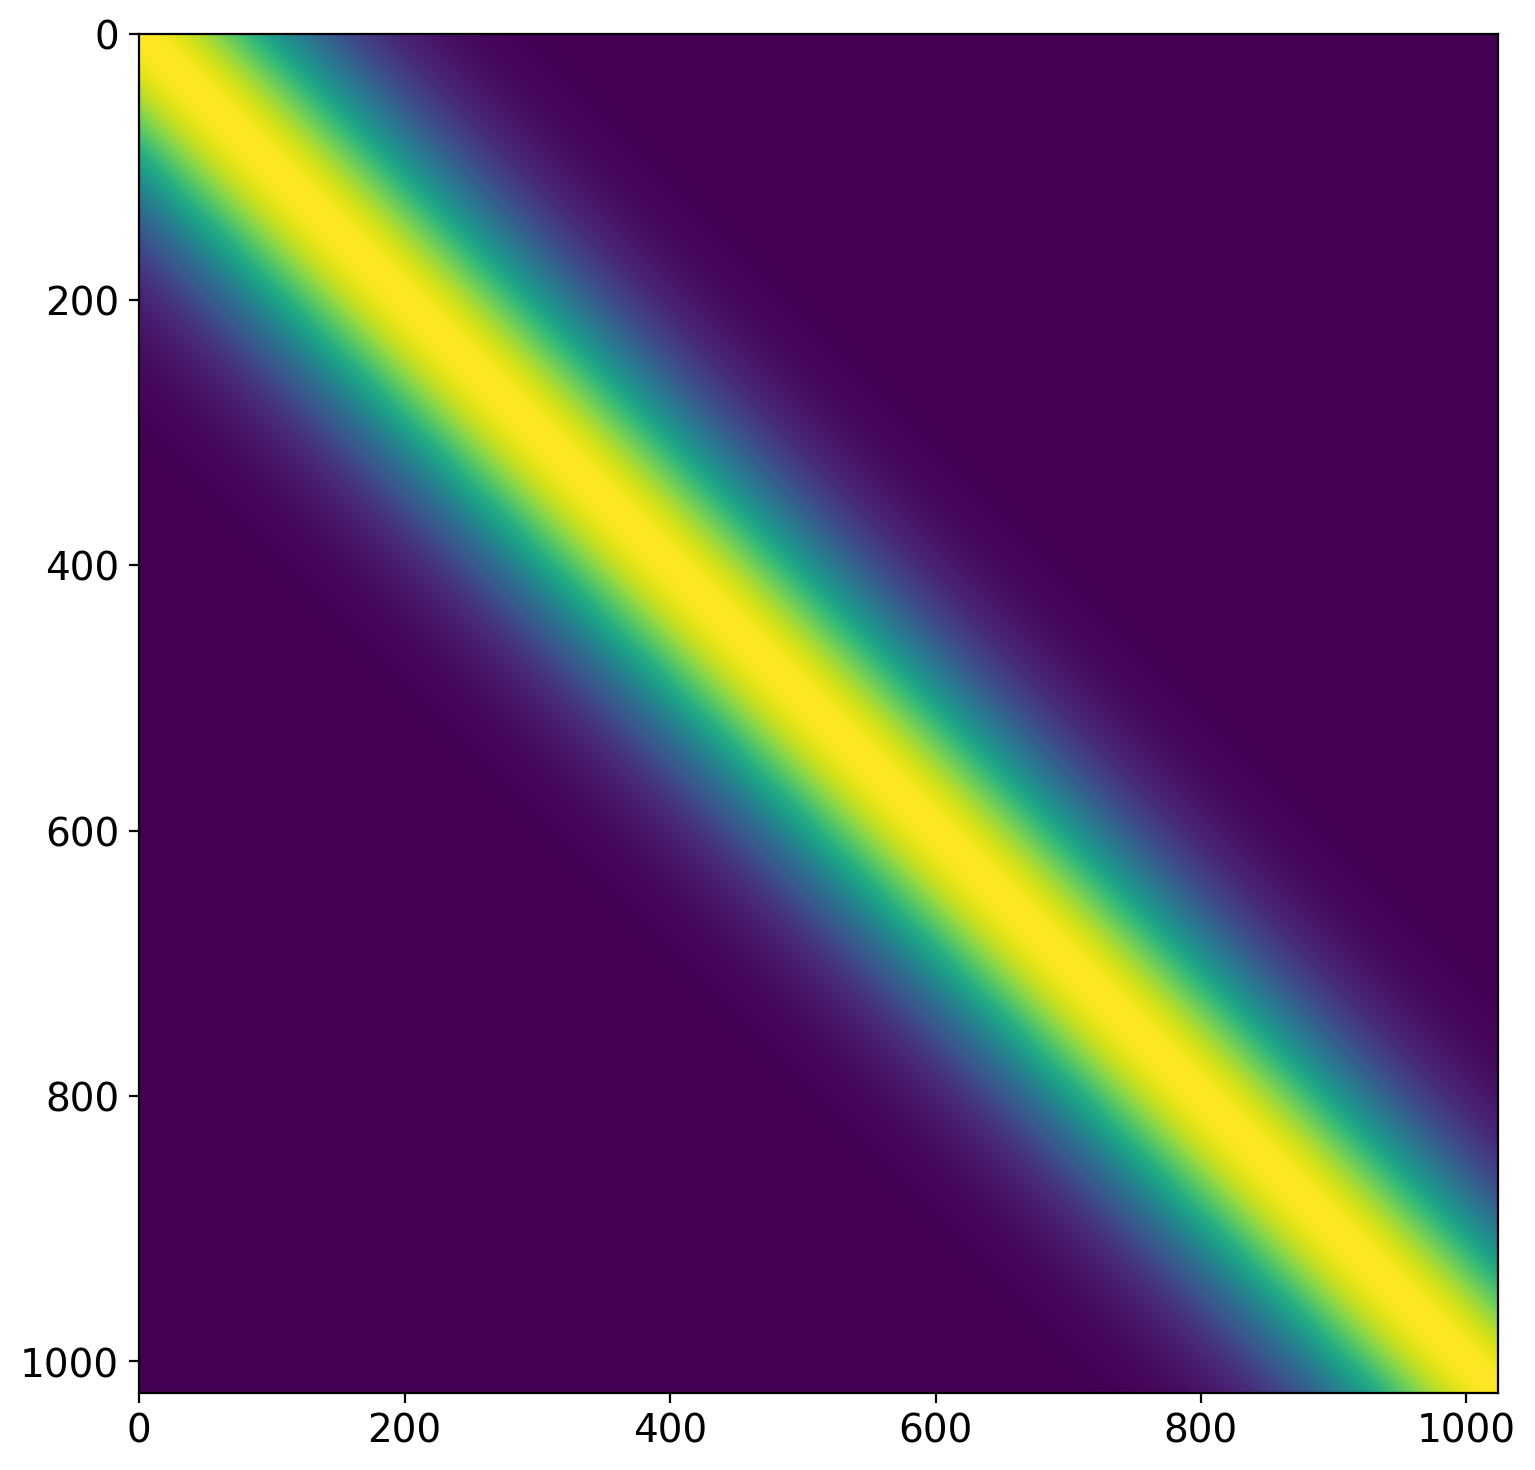
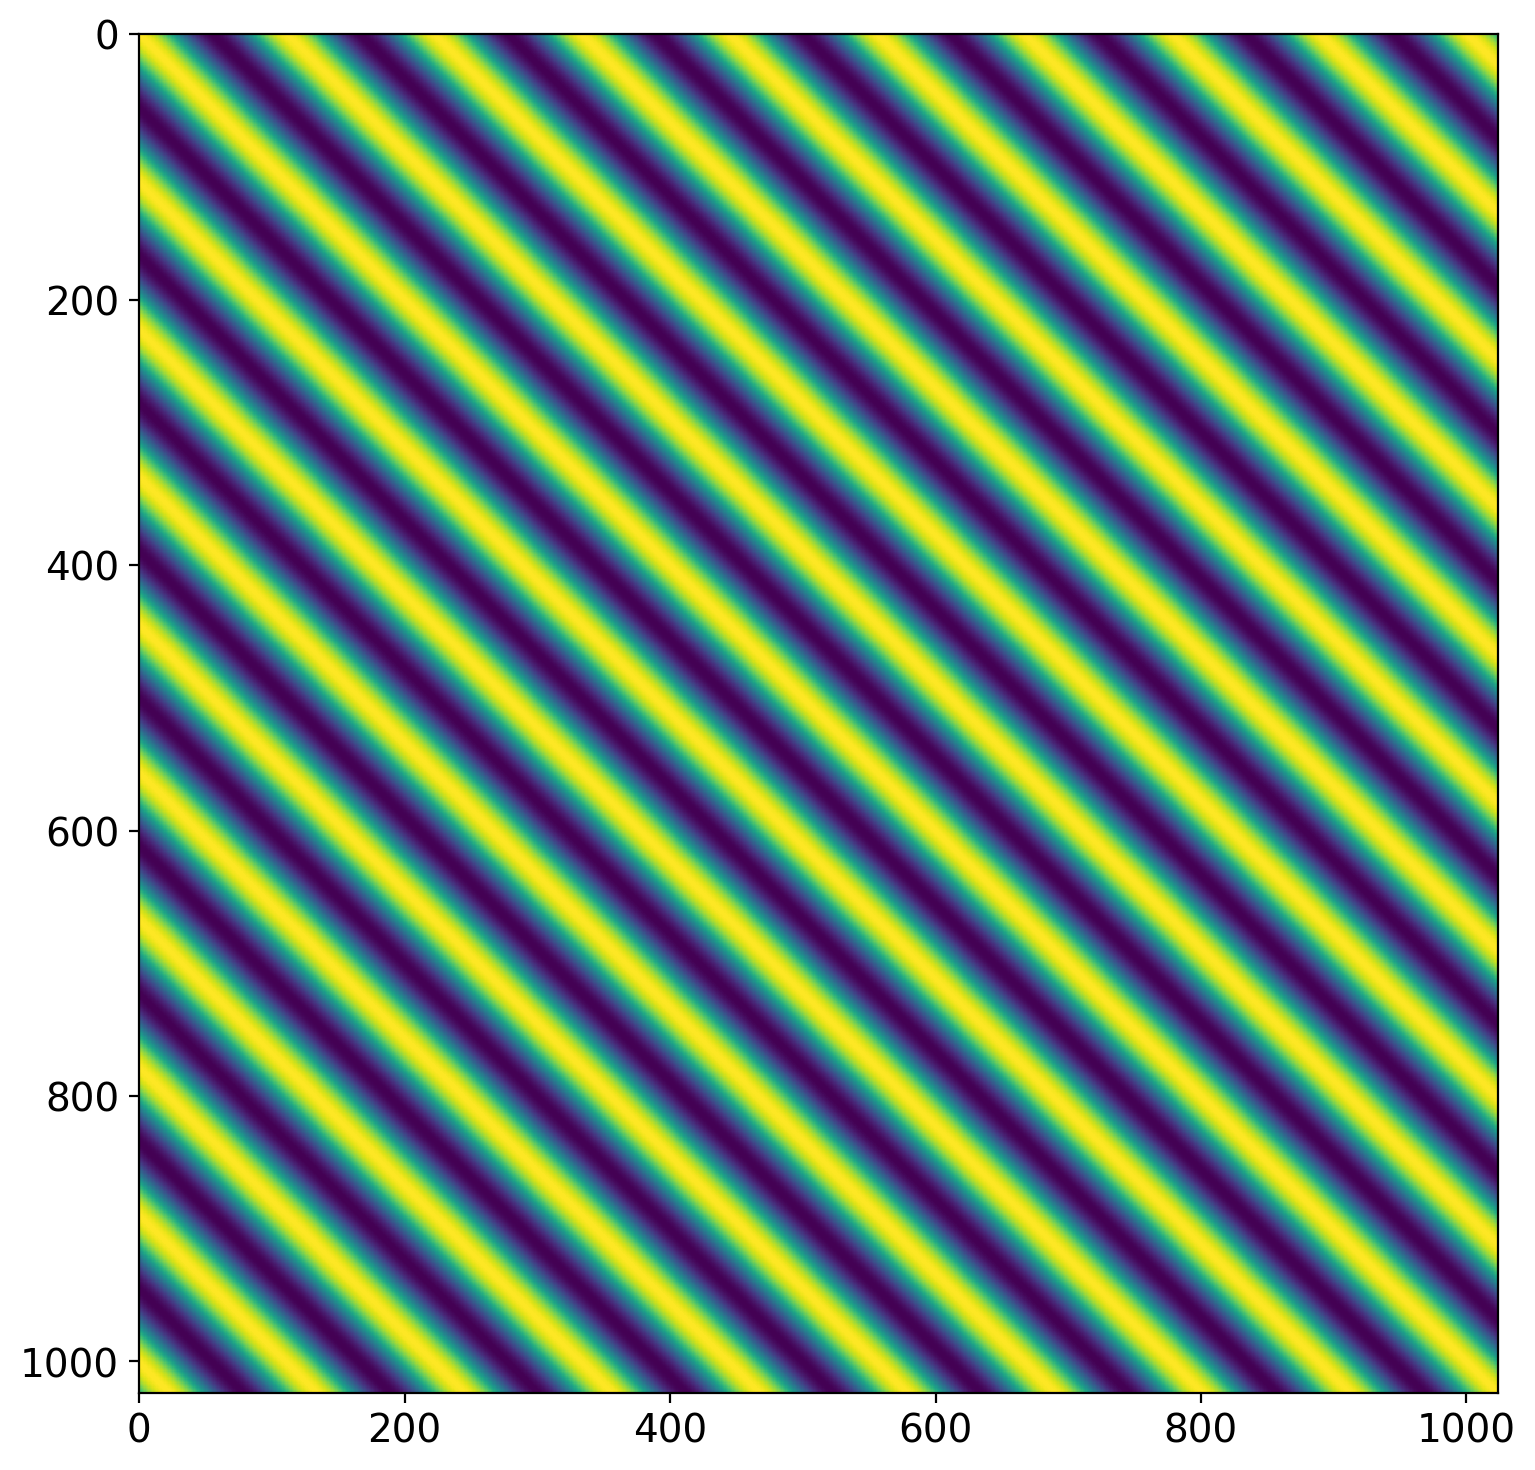
new stuff

diff --git a/talks/capstone/capstone.html b/talks/capstone/capstone.html
@@ -49,7 +49,7 @@
 
 					<section data-state="dim-background">
 						Slides available at <br><a href="benjaminpope.github.io/talks/capstone/capstone.html">benjaminpope.github.io/talks/capstone/capstone.html</a>
-						<img width='300' data-src="qrcode_capstone.jpg" alt="QR Code">
+						<img width='250' data-src="qrcode_capstone.jpg" alt="QR Code">
 					</section>
 				</section>
 
@@ -166,7 +166,7 @@
 					</section>
 
 					<section data-state="dim-background">
-						A common kernel is the squared exponential kernel
+						A common kernel is the squared exponential kernel:
 						<p>\[k(x_i,x_j) = h^2 \exp({-(\frac{x_i - x_j}{\lambda})^2})\]</p>
 					</section>
 
@@ -175,8 +175,8 @@
 					</section>
 
 					<section data-state="dim-background">
-						Alternatively, an exponential sine-squared times our previous one:
-						<p>\[k(x_i,x_j) = h^2 \exp({-(\frac{x_i - x_j}{\lambda})^2}) \exp(-\Gamma {\sin^2}[\Pi/P |x_i - x_j|]) \]</p>
+						Alternatively, an exponential sine-squared kernel:
+						<p>\[k(x_i,x_j) = h^2 \exp(-\Gamma {\sin^2}[\frac{\Pi}{P} |x_i - x_j|]) \]</p>
 					</section>
 
 					<section data-state="dim-background">
@@ -212,7 +212,10 @@
 					</section>
 
 					<section data-state="dim-background">
-						Follow along in a Google Colab online: <a href="https://tinyurl.com/t5j2ncs">tinyurl.com/t5j2ncs</a>
+						Follow along in a Google Colab online: <br>
+						<a href="https://tinyurl.com/t5j2ncs">tinyurl.com/t5j2ncs</a><br>
+						<img width='250' data-src="qr_colab.png" alt="QR Code">
+
 					</section>
 
 				</section>
